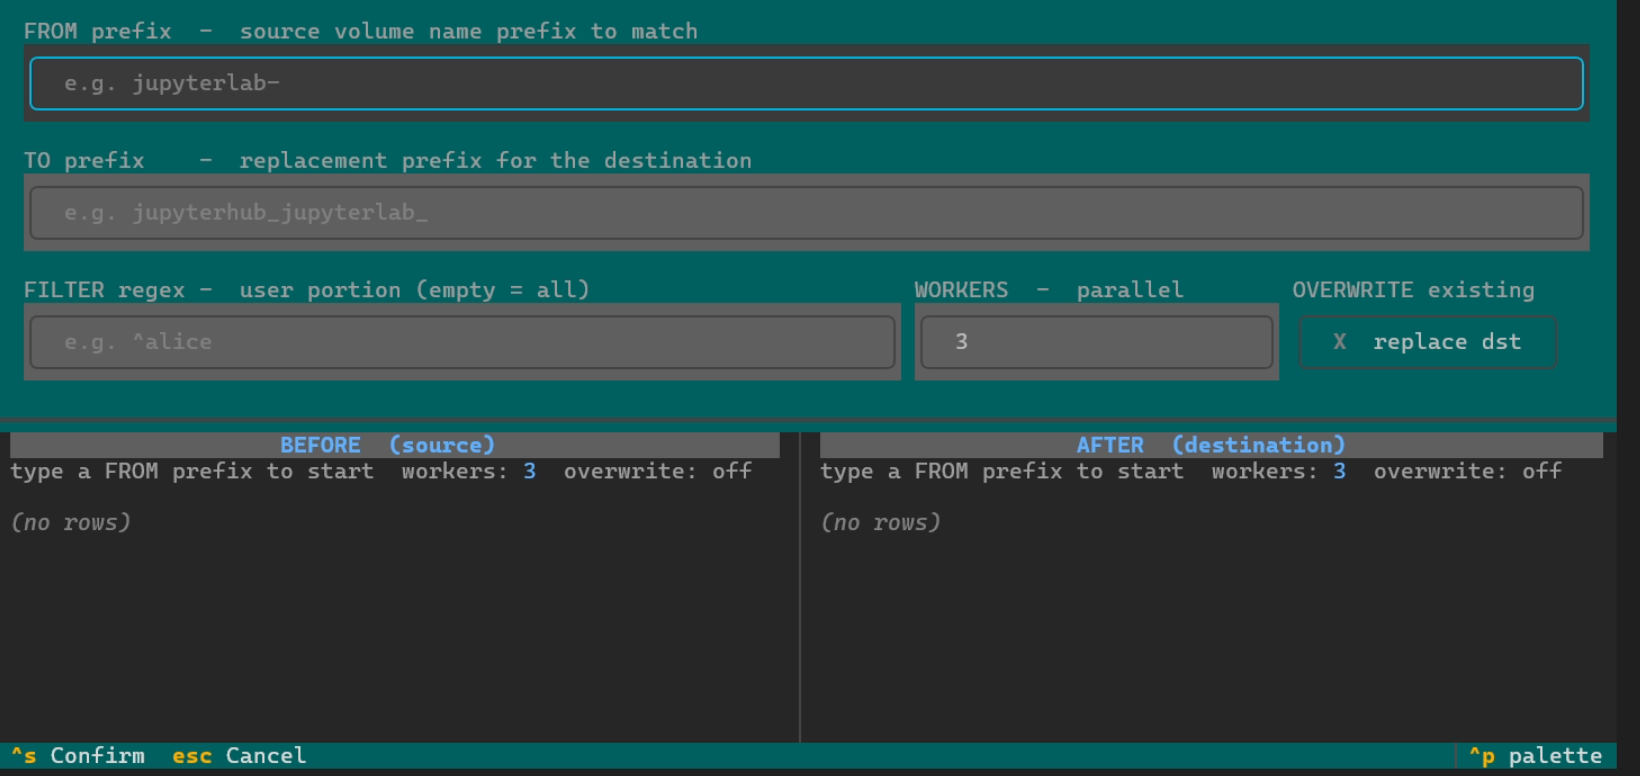
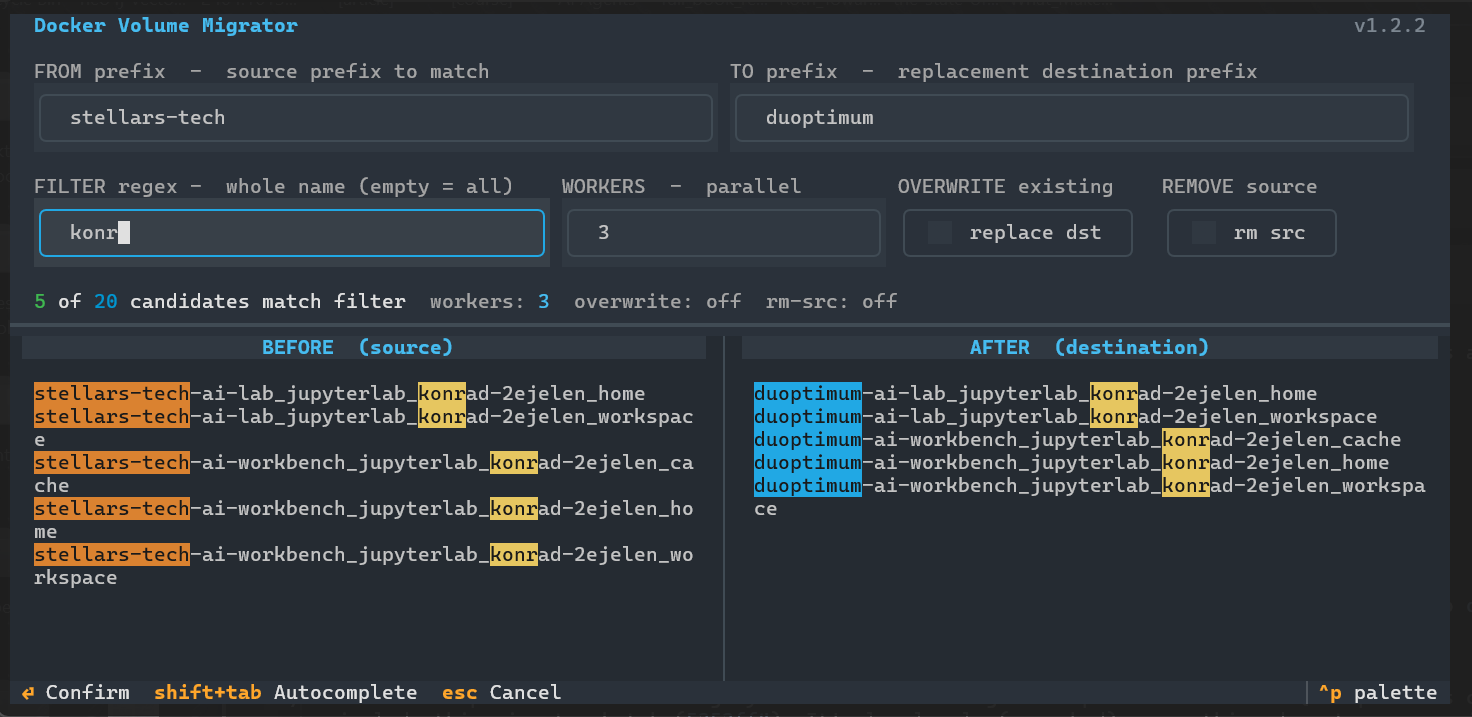
docs: refresh TUI screenshots and tidy the intro
- Replace screenshots with the current build (designer, plan, and a
  real execution/progress screen); drop the stale plan-selected shot.
- Caption each image; remove the redundant Screenshots header.
- Describe the project as a small command-line tool.

diff --git a/README.md b/README.md
@@ -1,27 +1,25 @@
 # docker-volume-migrator
 
-A terminal tool that copies Docker volumes from one name prefix to another. It
+A small command-line tool that copies Docker volumes from one name prefix to another. It
 matches every volume named `{from_prefix}{tail}` and copies it to
 `{to_prefix}{tail}`, preserving the tail (`_home`, `_workspace`, `_certs`, a
 per-user suffix, anything that follows the prefix). Run it from the host that
 owns the Docker volumes; it copies rather than renames, so the originals stay in
 place until you have verified the result.
 
-## Screenshots
-
-The interactive TUI walks through three stages - designer, plan, execution.
+Run with no arguments for the interactive TUI - designer, plan, execution:
 
 ![Designer](.resources/designer.png)
 
-*Set the FROM and TO prefixes, an optional filter, the worker count and overwrite mode; the BEFORE and AFTER panes preview the volumes that match.*
+*Set the FROM and TO prefixes, an optional whole-name filter, the worker count, and the overwrite / remove-source toggles; a live counter shows how many discovered volumes match (`5 of 20`) and the BEFORE / AFTER panes preview the exact source and destination names.*
 
 ![Migration plan](.resources/plan.png)
 
-*Review every matched volume and its `source → destination` mapping before anything is copied.*
+*Review each matched volume and its `source → destination` mapping; toggle rows with Space (a = all, n = none) and press Enter to run only the selected copies.*
 
-![Selecting rows](.resources/plan-selected.png)
+![Execution](.resources/execution.png)
 
-*Toggle individual rows with Space (a = all, n = none), then press Enter to run only the selected copies.*
+*Live progress during the copy - an overall bar plus a per-volume bar for each parallel worker, moving through discovery and transfer.*
 
 ## When you need it
 